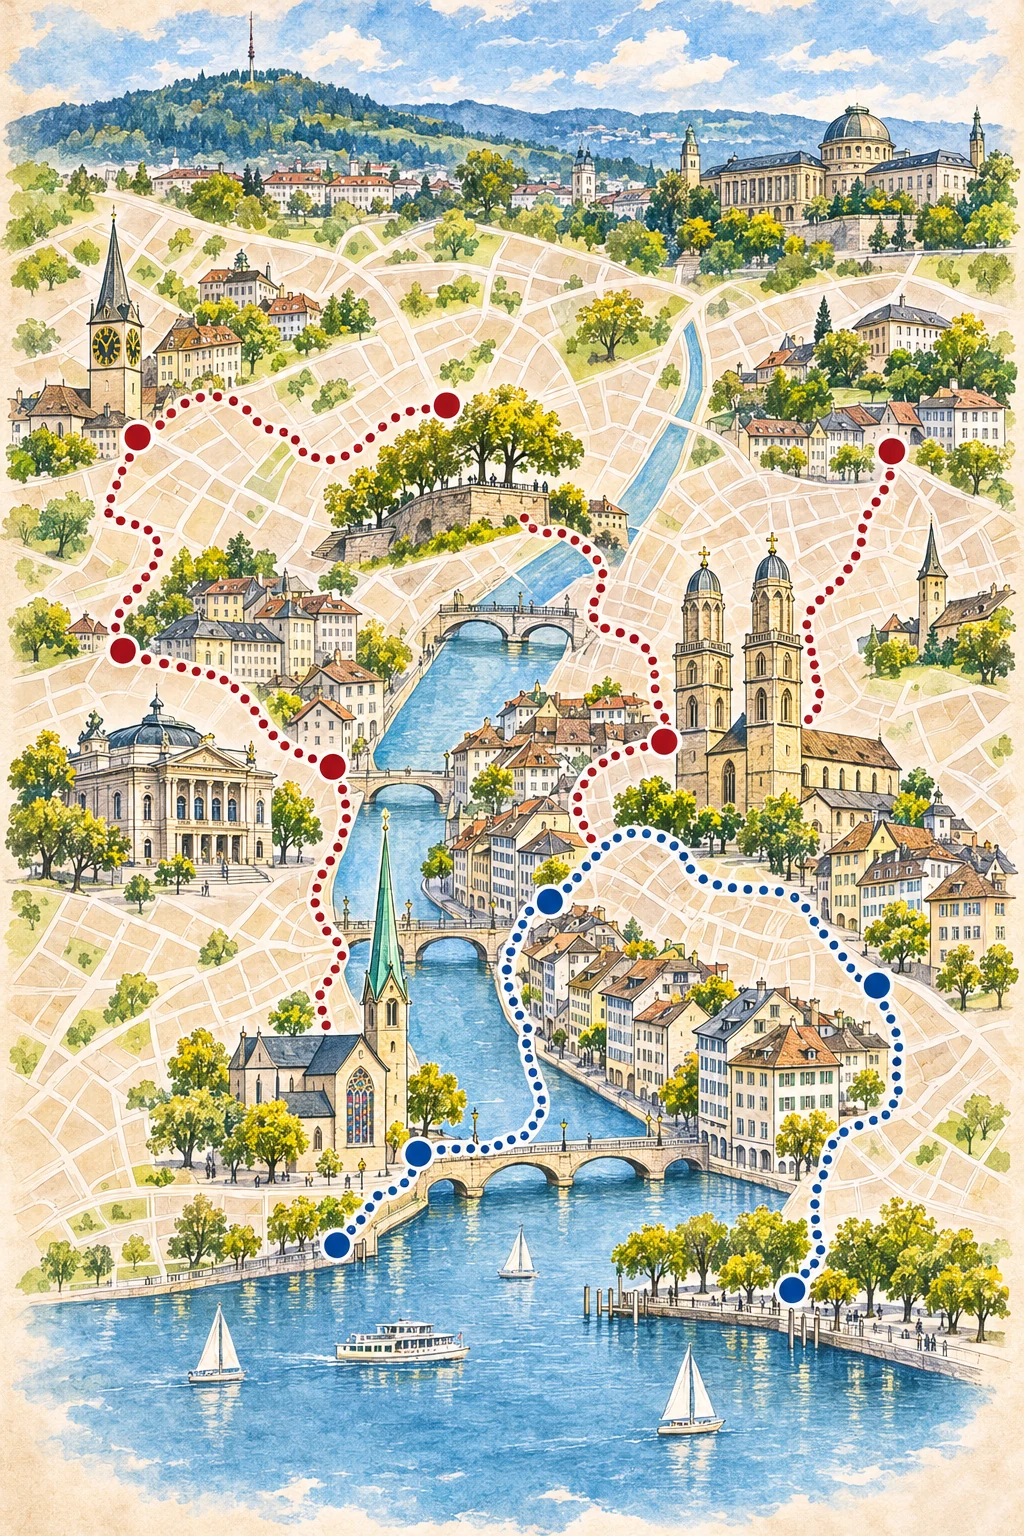
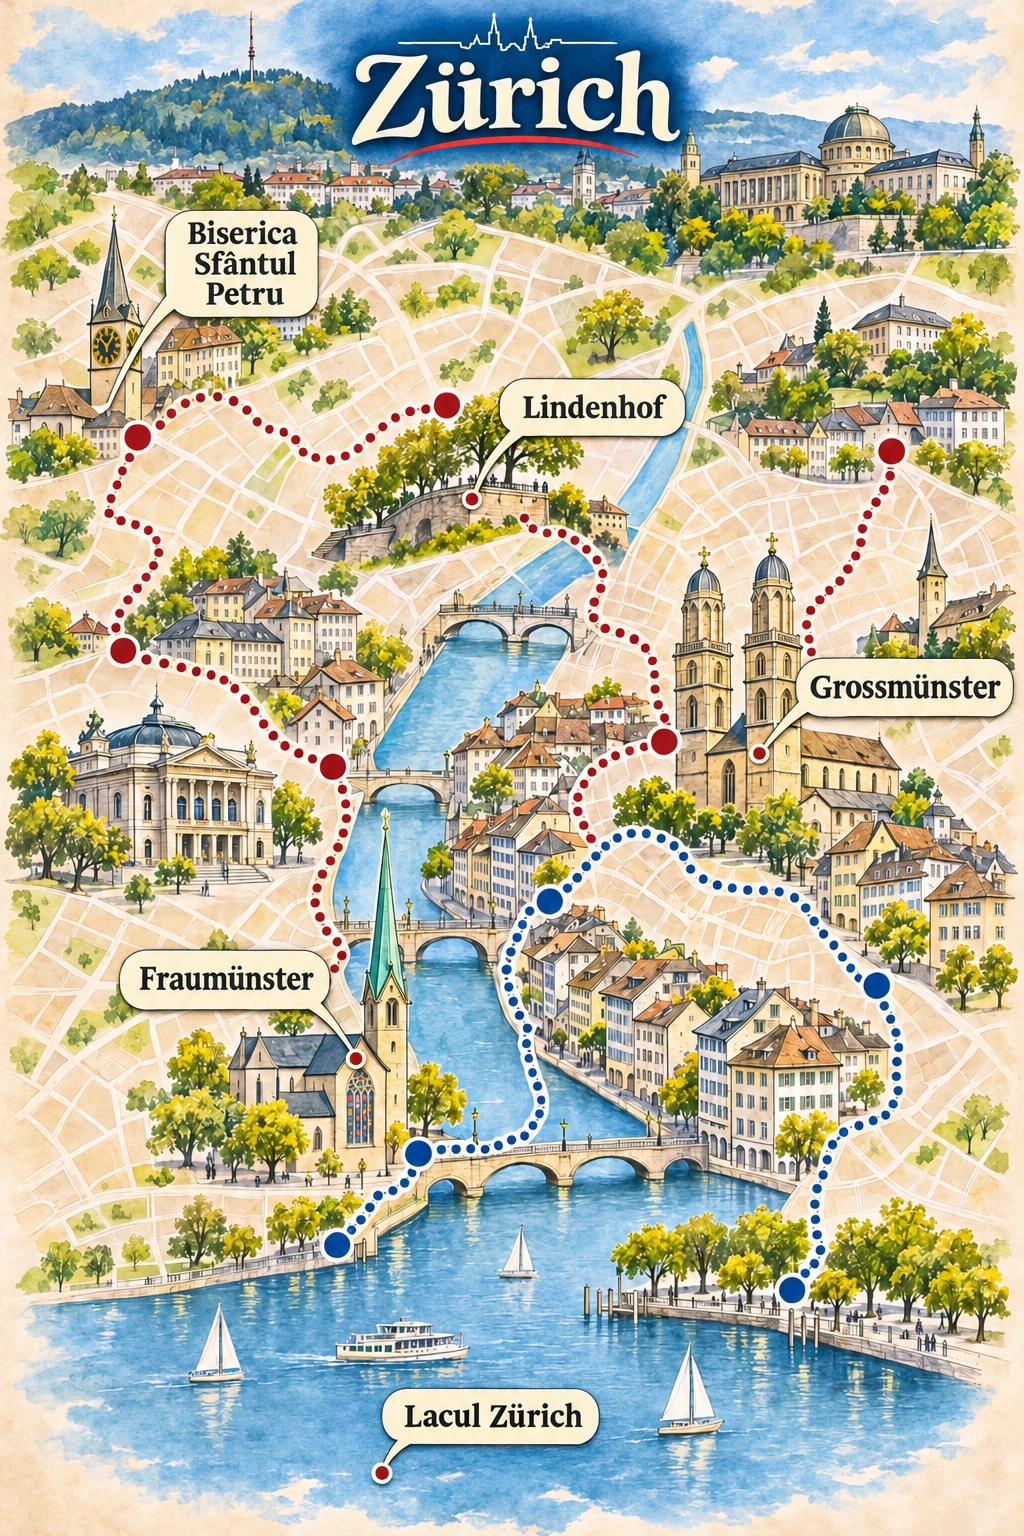
Add attraction labels to Zurich guide map

Changed region(s): [[0.0, 0.0, 1.0, 1.0], [0.9375, 0.7188, 0.9688, 0.75]]

diff --git a/ILUSTRATII.md b/ILUSTRATII.md
@@ -51,9 +51,10 @@ Se adaugă numele obiectivelor direct pe hărțile existente, în stilul aprobat
 - Ljubljana
 - Split
 - Salonic
+- Zürich
 
 Harta originală pentru Praga avea deja etichete. Celelalte orașe din `assets/guides-prague-style/` necesită în continuare verificare și prelucrare. Actualizează această listă în același commit cu fiecare lot nou.
 
-Ilustrațiile fără etichete sunt păstrate în istoricul Git: pentru Roma și Barcelona folosește fișierul de la commitul `14f016a`, iar pentru Paris, Londra, Lisabona, Berlin și Bruxelles de la `508e691`. Pentru Budapesta, Atena, Veneția, Amsterdam, Viena, Milano, Madrid, Bologna, Lyon, Porto, Varșovia, Copenhaga, Edinburgh, Bruges, Köln, Dublin, Cracovia, Stockholm, Chișinău, Bratislava, Sofia, Oslo, Bari, Napoli, Sevilla, Istanbul, Dubrovnik, Palermo, Pisa, Florența, Valencia, Nisa, Marsilia, Glasgow, Helsinki, Riga, Tallinn, Vilnius, Ljubljana, Split și Salonic se pot folosi originalele de la `48efdd5`. Copii locale sunt în `/workspace/guide-batch/original-illustrations` când acel director este disponibil. Păstrează imaginile originale pentru quiz.
+Ilustrațiile fără etichete sunt păstrate în istoricul Git: pentru Roma și Barcelona folosește fișierul de la commitul `14f016a`, iar pentru Paris, Londra, Lisabona, Berlin și Bruxelles de la `508e691`. Pentru Budapesta, Atena, Veneția, Amsterdam, Viena, Milano, Madrid, Bologna, Lyon, Porto, Varșovia, Copenhaga, Edinburgh, Bruges, Köln, Dublin, Cracovia, Stockholm, Chișinău, Bratislava, Sofia, Oslo, Bari, Napoli, Sevilla, Istanbul, Dubrovnik, Palermo, Pisa, Florența, Valencia, Nisa, Marsilia, Glasgow, Helsinki, Riga, Tallinn, Vilnius, Ljubljana, Split, Salonic și Zürich se pot folosi originalele de la `48efdd5`. Copii locale sunt în `/workspace/guide-batch/original-illustrations` când acel director este disponibil. Păstrează imaginile originale pentru quiz.
 
 Nu modifica funcționalitatea de căutare a zborurilor în cadrul acestei activități.
